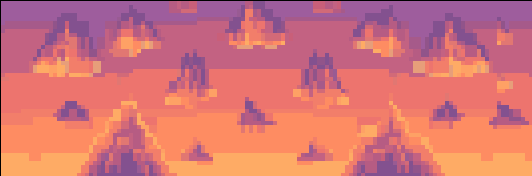
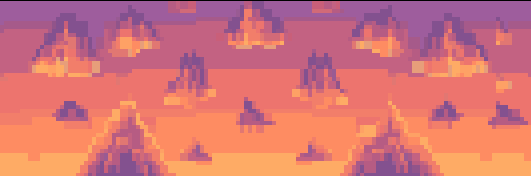
Fix a stray black seam in the sky and make grass the running surface
Two real defects Hayden found live, not in the earlier screenshots (both
confirmed by reading the actual pixel data rather than eyeballing):

- evening_sky.png had a literal 1px pure-black column baked into its left
  edge (0,0,0 at x=0, real sky colour from x=1 on, and x=1's colour already
  matches the opposite edge almost exactly — the art was clearly meant to
  tile starting at column 1). Tiled repeatedly, that column read as a
  vertical black line across the sky at every tile boundary. Cropped it out.
- lower_track.png had a large, perfectly flat (44,44,55) region across its
  full width for the bottom third of the image — not textured grass,
  almost certainly the editor's canvas background surviving the export.
  Stretched over the track's height, that flat dead zone was a real
  contributor to horses reading as running "too far down": lane math tuned
  against the old flat-colour fill had no way to know part of the new art
  wasn't real content. Cropped to the actual painted rows.

Also swapped which asset the race is actually run on. Hayden's call: this
is a turf race, so grass.png is the running surface, tiled across the
full span below the horizon rather than confined to the thin strip beyond
it. lower_track.png (dirt) stays loaded for a future dirt-track venue but
isn't drawn here — mid-way through rebalancing its dirt/grass proportions
in response to "the lower grass is too big," this direction landed instead
[…]

diff --git a/src/render/track.ts b/src/render/track.ts
@@ -250,12 +250,12 @@ function drawTurf(
     const scrollPx = cam.scrollMetres * cam.pixelsPerMetre;
     // Full scroll rate — this is the same near-ground plane the horses run
     // on, not a distant layer that should parallax slower.
-    tileImage(ctx, raceBackgroundImages.grass, horizon, width, height * 0.09, scrollPx);
-    // lower_track.png is the dirt and the near turf apron composed as one
-    // strip (an artist call, not a code one — see ROADMAP.md), so it fills
-    // the whole span below the far turf in a single tiled draw rather than
-    // two separate fills the way the procedural version below needs.
-    tileImage(ctx, raceBackgroundImages.lowerTrack, trackTop, width, height - trackTop, scrollPx);
+    //
+    // Hayden's call: this is a turf race, so grass.png IS the running
+    // surface — tiled across the whole span below the horizon, not just the
+    // thin strip beyond it. lower_track.png (dirt) stays loaded for a future
+    // dirt-track venue but isn't drawn here.
+    tileImage(ctx, raceBackgroundImages.grass, horizon, width, height - horizon, scrollPx);
     return;
   }
 
